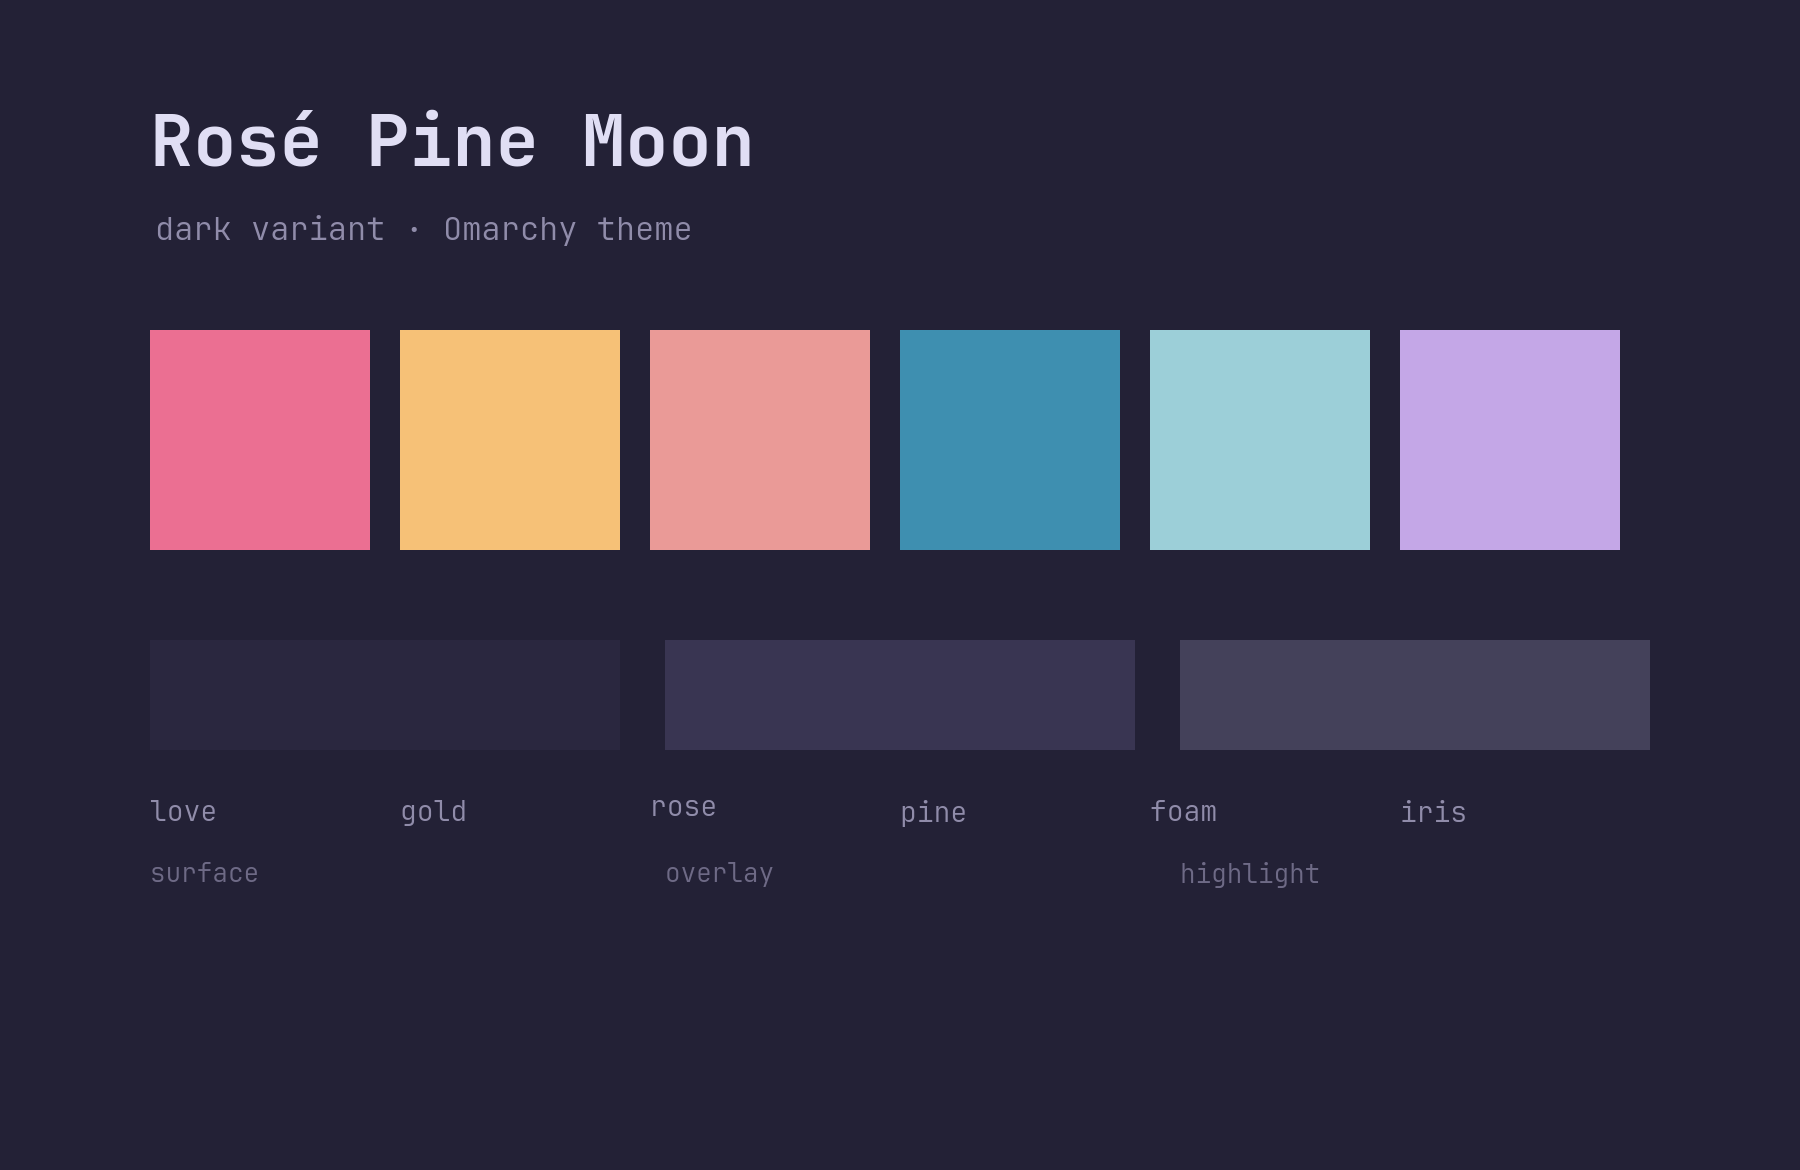
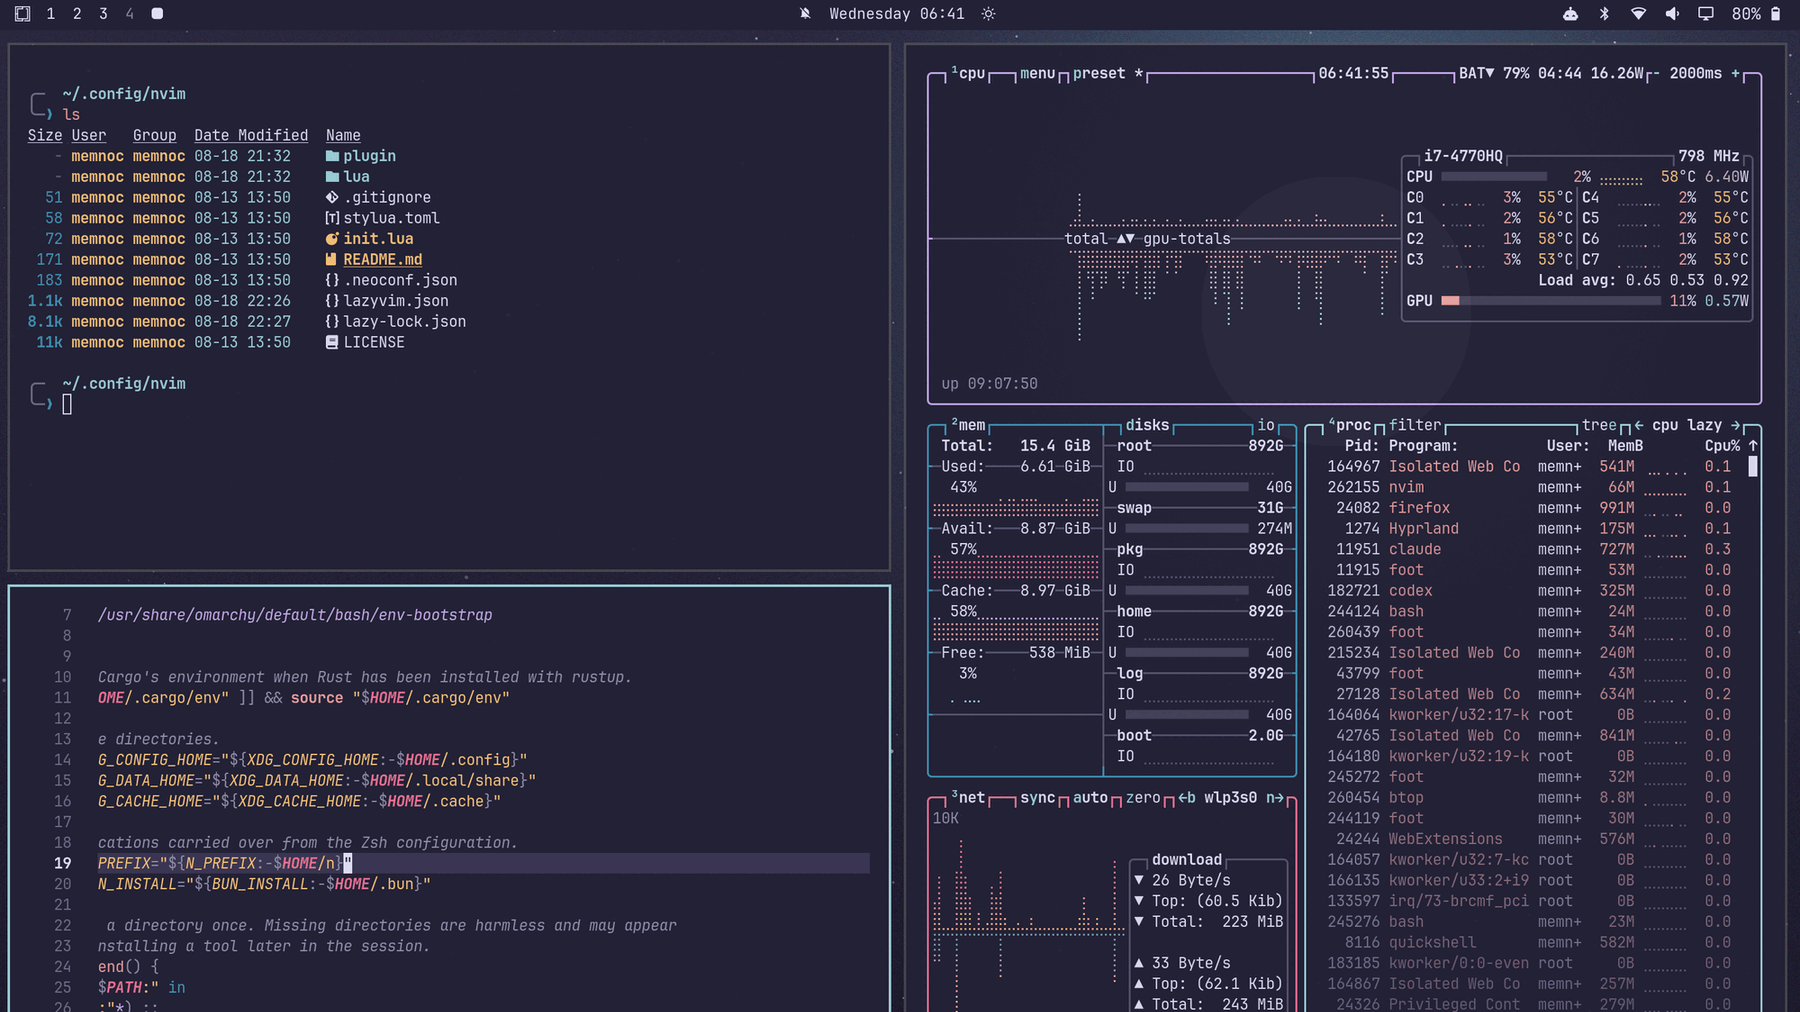
Use a real desktop screenshot for preview.png, like the stock themes
Replace the generated palette card with the same screenshot used for
assets/terminal.png, cropped to the stock 1800x1012 preview aspect and
gravity-north so the Hyprland bar stays visible, matching how every
other Omarchy theme's preview.png works.

diff --git a/README.md b/README.md
@@ -79,7 +79,7 @@ the theme.
 | `vscode.json` | Rosé Pine Moon via the `mvllow.rose-pine` extension |
 | `icons.theme` | `Yaru-purple` |
 | `backgrounds/` | two official Rosé Pine Moon wallpapers |
-| `preview.png` | palette card for the theme picker |
+| `preview.png` | real desktop screenshot for the theme picker |
 | `unlock.png`, `preview-unlock.png` | Plymouth boot logo and boot-screen preview |
 
 There is deliberately no `chromium.theme`: Omarchy's dark themes ship none, and
